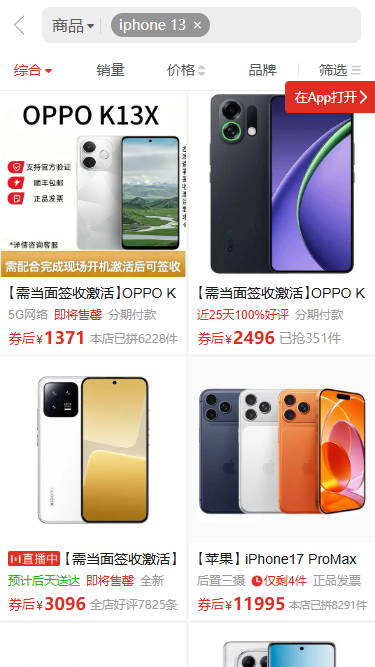
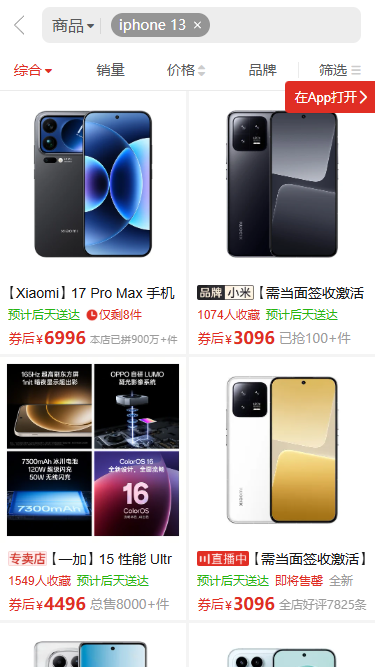
sdaad

diff --git a/scratch/test-pdd.js b/scratch/test-pdd.js
@@ -72,22 +72,31 @@ async function run() {
     if (rawData) {
       console.log("Success! Found rawData!");
       console.log("Top-level keys of rawData:", Object.keys(rawData));
-      if (rawData.store) {
-        console.log("Store keys:", Object.keys(rawData.store));
-      }
-      
-      // Let's recursively search for any arrays of objects that look like goods lists
-      // Often in yangkeduo search it's located inside some deeply nested object
-      // e.g. rawData.store.goodsList or rawData.store.searchResults etc.
-      // Let's look for a key with "goods" or "items" or "list"
-      for (const key of Object.keys(rawData)) {
-        const val = rawData[key];
-        if (val && typeof val === 'object') {
-          console.log(`Key "${key}" is object. Nested keys:`, Object.keys(val).slice(0, 10));
+      if (rawData.stores) {
+        console.log("stores keys:", Object.keys(rawData.stores));
+        if (rawData.stores.store) {
+          console.log("stores.store keys:", Object.keys(rawData.stores.store));
+          // Let's print nested properties of stores.store to see if there is goods/items/results list
+          for (const key of Object.keys(rawData.stores.store)) {
+            const val = rawData.stores.store[key];
+            if (val && typeof val === 'object') {
+              console.log(`- stores.store.${key} is object/array. Keys:`, Array.isArray(val) ? `Array(length: ${val.length})` : Object.keys(val).slice(0, 8));
+            } else {
+              console.log(`- stores.store.${key}:`, val);
+            }
+          }
         }
       }
 
-      const itemsList = rawData.items || rawData.goods_list || rawData.goodsList || (rawData.store && rawData.store.goodsList) || [];
+      // Let's dynamically resolve the items list from various possible locations in rawData.stores
+      const itemsList = 
+        (rawData.stores && rawData.stores.store && rawData.stores.store.goodsList) ||
+        (rawData.stores && rawData.stores.store && rawData.stores.store.goods_list) ||
+        rawData.items || 
+        rawData.goods_list || 
+        rawData.goodsList || 
+        (rawData.store && rawData.store.goodsList) || 
+        [];
       console.log(`Found ${itemsList.length} items.`);
       itemsList.slice(0, 5).forEach((item, idx) => {
         console.log(`\nItem #${idx + 1}:`);